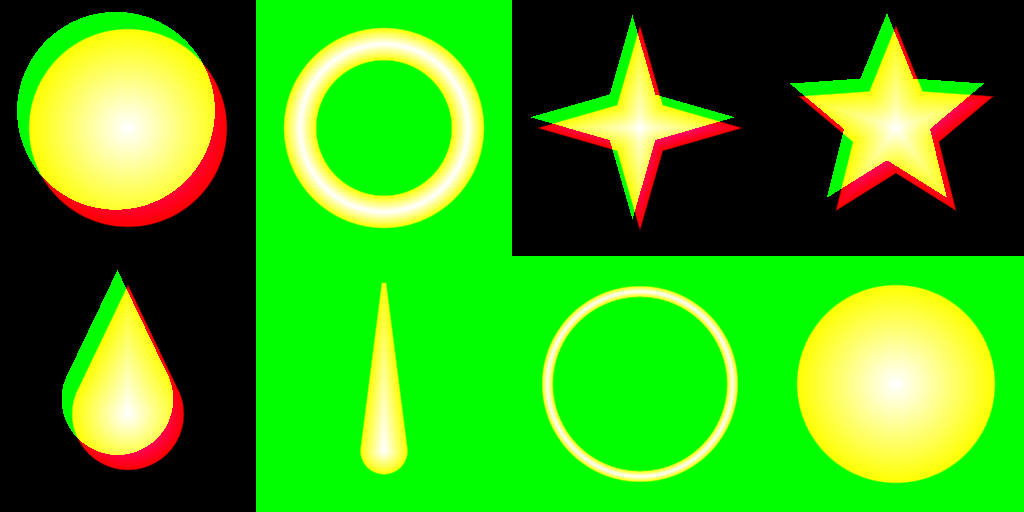
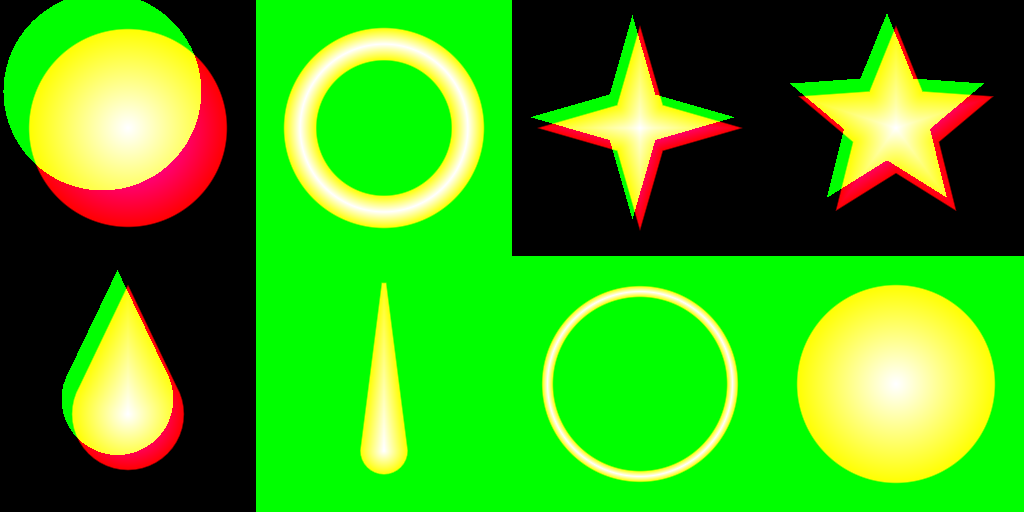
Polish M2 r3 WIP: drag-order helper, knockdown waits for the drawn body, atlas shade 28%, shard appear delay, ground ring
Work in progress before merging the bounce branch.

Changed region(s): [[0.0312, 0.0938, 0.2188, 0.4062], [0.0, 0.0, 0.1562, 0.2812], [0.1562, 0.0312, 0.1875, 0.0625]]

diff --git a/Tools/GAS/setup_presentation_vfx_materials.py b/Tools/GAS/setup_presentation_vfx_materials.py
@@ -50,6 +50,10 @@ INSTANCES = {
     # Landing / knockdown ring: thin, 43% -> 100% in the first 6 frames (ease-out), then thinned by erosion (6 -> 2 cm) until it dies
     "LandRing": dict(cell="ThinRing", FlatLight=1.0, StartScale=0.43, GrowEnd=0.33, ShrinkStart=1.0, EndScale=1.0, ErodeStart=0.3,
                      DisplayGain=2.1, colors=(DUST, DUST, DUST)),
+    # Landing / knockdown ring on the floor: the thick ring, thinned by erosion from 40% of its life. A flat thin ring is seen nearly edge-on
+    # from a low camera (12 degrees: a 6 cm band is ~1 px) and vanished after ~5 frames in review r2; the splat's ring faces the camera
+    "GroundRing": dict(cell="Ring", FlatLight=1.0, StartScale=0.43, GrowEnd=0.33, ShrinkStart=1.0, EndScale=1.0, ErodeStart=0.4,
+                       DisplayGain=2.1, colors=(DUST, DUST, DUST)),
     # Jump: thin ring, smaller and quicker than the landing
     "JumpRing": dict(cell="ThinRing", FlatLight=1.0, StartScale=0.4, GrowEnd=1.0, ShrinkStart=1.0, EndScale=1.0, ErodeStart=0.5,
                      DisplayGain=2.1, colors=(DUST, DUST, DUST)),
@@ -58,10 +62,10 @@ INSTANCES = {
                         DisplayGain=2.0, colors=(WHITE, WHITE, WHITE)),
     # Hit: 4-point star shards, white -> yellow -> orange, shrink out; pushed behind the flash for their first frame
     "HitStar": dict(cell="Star4", StartScale=1.0, GrowEnd=0.01, ShrinkStart=0.3, EndScale=0.3, ErodeStart=1.0, DisplayGain=2.0,
-                    colors=(WHITE, HIT_MID, HIT_END), MidTime=0.12, ShadowMul=HIT_SHADE, DepthPush=60.0, DepthPushEnd=0.08),
+                    colors=(WHITE, HIT_MID, HIT_END), MidTime=0.12, ShadowMul=HIT_SHADE, DepthPush=60.0, DepthPushEnd=0.08, AppearAt=0.05),
     # Strong hit accent: 5-point stars in the row's second colour (User.AccentTint through the particle colour)
     "HitAccent": dict(cell="Star5", StartScale=1.0, GrowEnd=0.01, ShrinkStart=0.3, EndScale=0.3, ErodeStart=1.0, DisplayGain=2.0,
-                      colors=(WHITE, WHITE, WHITE), ShadowMul=HIT_SHADE, DepthPush=60.0, DepthPushEnd=0.08),
+                      colors=(WHITE, WHITE, WHITE), ShadowMul=HIT_SHADE, DepthPush=60.0, DepthPushEnd=0.08, AppearAt=0.05),
     # Hit flash: the only thing above 1 (bloom), one or two frames
     "HitFlash": dict(cell="FlatBall", FlatLight=1.0, EmissiveBoost=4.0, StartScale=1.0, GrowEnd=0.01, ShrinkStart=0.0, EndScale=0.3,
                      ErodeStart=1.0, colors=(WHITE, WHITE, HIT_MID), MidTime=0.5),
@@ -71,6 +75,9 @@ INSTANCES = {
     # Tumble trail: balls dropped along the path (tinted by the cue, white by default), shrink out
     "TrailBall": dict(cell="Ball", StartScale=0.8, GrowEnd=0.1, ShrinkStart=0.3, EndScale=0.3, ErodeStart=1.0, DisplayGain=2.0,
                       colors=(WHITE, WHITE, WHITE), ShadowMul=COOL_SHADE),
+    # Colour calibration only (NS_GSTN_Swatch, capture with PIE_SWATCH=1): flat, full size all its life, the particle colour as is
+    "Swatch": dict(cell="FlatBall", FlatLight=1.0, StartScale=1.0, GrowEnd=0.01, ShrinkStart=1.0, EndScale=1.0, ErodeStart=1.0,
+                   DisplayGain=1.0, colors=(WHITE, WHITE, WHITE)),
     # Tumble ribbon: one tone; older segments erode first, so the tail tapers
     "TrailRibbon": dict(cell="FlatBall", FlatLight=1.0, StartScale=1.0, GrowEnd=0.01, ShrinkStart=1.0, EndScale=1.0, ErodeStart=0.0,
                         DisplayGain=2.0, colors=(WHITE, WHITE, WHITE)),
@@ -226,7 +233,16 @@ def build_master(atlas):
     # Erosion: keep = min(particle alpha, 1 - ramp(t, ErodeStart, 1)); visible where B >= 1 - keep (clip 0.5)
     keep_life = _unary(mat, unreal.MaterialExpressionOneMinus, _ramp(mat, t, _scalar(mat, "ErodeStart", 0.6, -700, 1400), one_c, -550, 1400),
                        -50, 1400)
-    keep = _op(mat, unreal.MaterialExpressionMin, color, keep_life, 100, 1300, a_out="A")
+    # Hidden before AppearAt (normalized age): the hit's shards must not show in the flash's frame (review r2: a cream star on frame 1).
+    # appear = saturate((t - AppearAt) * 10000 + 1): 1 at t = 0 when AppearAt is 0 (the default: every other effect shows on frame 1)
+    late = _op(mat, unreal.MaterialExpressionSubtract, t, _scalar(mat, "AppearAt", 0.0, -700, 1550), -550, 1550)
+    late_k = _node(mat, unreal.MaterialExpressionMultiply, -400, 1550, const_b=10000.0)
+    _link(late, "", late_k, "A")
+    late_1 = _node(mat, unreal.MaterialExpressionAdd, -280, 1550, const_b=1.0)
+    _link(late_k, "", late_1, "A")
+    appear = _unary(mat, unreal.MaterialExpressionSaturate, late_1, -160, 1550)
+    keep_alive = _op(mat, unreal.MaterialExpressionMin, keep_life, appear, -40, 1500)
+    keep = _op(mat, unreal.MaterialExpressionMin, color, keep_alive, 100, 1300, a_out="A")
     erode = _op(mat, unreal.MaterialExpressionAdd, tex, keep, 250, 1250, a_out="B")
     erode_bias = _node(mat, unreal.MaterialExpressionAdd, 400, 1250, const_b=-0.5)
     _link(erode, "", erode_bias, "A")
@@ -254,7 +270,7 @@ def build_instances(master):
         mi.set_editor_property("parent", master)
         col, row = CELLS[look["cell"]]
         scalars = {"CellX": col, "CellY": row, "FlatLight": 0.0, "EmissiveBoost": 1.0, "MidTime": 0.3, "DisplayGain": 1.3,
-                   "DepthPush": 0.0, "DepthPushEnd": 0.1}
+                   "DepthPush": 0.0, "DepthPushEnd": 0.1, "AppearAt": 0.0}
         scalars.update({k: v for k, v in look.items() if isinstance(v, (int, float))})
         for key, value in scalars.items():
             MEL.set_material_instance_scalar_parameter_value(mi, key, float(value))

diff --git a/Plugins/GSTNPresentation/Source/GSTNPresentationEditor/Private/GSTN_VfxAuthoringLibrary.cpp b/Plugins/GSTNPresentation/Source/GSTNPresentationEditor/Private/GSTN_VfxAuthoringLibrary.cpp
@@ -283,6 +283,35 @@ namespace GSTNVfxAuthoring
 		return Out + TEXT("}");
 	}
 
+	/** The stack's modules in execution order: walks the parameter map chain back from the output node (the engine's ordered walk is not
+	 *  exported) */
+	static void OrderedModules(UNiagaraNodeOutput* Output, TArray<UNiagaraNodeFunctionCall*>& Out)
+	{
+		UNiagaraNode* Current = Output;
+		while (Current)
+		{
+			UEdGraphPin* MapIn = nullptr;
+			for (UEdGraphPin* Pin : Current->Pins)
+			{
+				if (Pin && Pin->Direction == EGPD_Input && UEdGraphSchema_Niagara::PinToTypeDefinition(Pin) == FNiagaraTypeDefinition::GetParameterMapDef())
+				{
+					MapIn = Pin;
+					break;
+				}
+			}
+			if (!MapIn || MapIn->LinkedTo.IsEmpty())
+			{
+				return;
+			}
+			UNiagaraNode* Previous = Cast<UNiagaraNode>(MapIn->LinkedTo[0]->GetOwningNode());
+			if (UNiagaraNodeFunctionCall* Call = Cast<UNiagaraNodeFunctionCall>(Previous))
+			{
+				Out.Insert(Call, 0);
+			}
+			Current = Previous;
+		}
+	}
+
 	static UNiagaraNodeOutput* OutputFor(UNiagaraGraph* Graph, const FString& Stack)
 	{
 		TArray<UNiagaraNodeOutput*> Outputs;
@@ -485,6 +514,51 @@ FString UGSTN_VfxAuthoringLibrary::AddModule(UNiagaraSystem* System, const FStri
 	UNiagaraNodeFunctionCall* Added = FNiagaraStackGraphUtilities::AddScriptModuleToStack(ModuleScript, *Output);
 	System->MarkPackageDirty();
 	return Added ? FString() : TEXT("AddScriptModuleToStack failed");
+}
+
+FString UGSTN_VfxAuthoringLibrary::AddModuleBefore(UNiagaraSystem* System, const FString& EmitterName, const FString& Stack,
+	const FString& ModuleScriptPath, const FString& BeforeModule)
+{
+	using namespace GSTNVfxAuthoring;
+	FNiagaraEmitterHandle* Handle = FindHandle(System, EmitterName);
+	UNiagaraGraph* Graph = EmitterGraph(Handle ? Handle->GetEmitterData() : nullptr);
+	UNiagaraScript* ModuleScript = LoadObject<UNiagaraScript>(nullptr, *ModuleScriptPath);
+	UNiagaraNodeOutput* Output = Graph ? OutputFor(Graph, Stack) : nullptr;
+	if (!ModuleScript || !Output)
+	{
+		return FString::Printf(TEXT("cannot add %s to %s %s"), *ModuleScriptPath, *EmitterName, *Stack);
+	}
+	TArray<UNiagaraNodeFunctionCall*> Modules;
+	OrderedModules(Output, Modules);
+	const int32 Index = Modules.IndexOfByPredicate([&BeforeModule](const UNiagaraNodeFunctionCall* Call) { return Call->GetFunctionName() == BeforeModule; });
+	if (Index == INDEX_NONE)
+	{
+		return FString::Printf(TEXT("no module %s in %s (%d modules)"), *BeforeModule, *Stack, Modules.Num());
+	}
+	Graph->Modify();
+	UNiagaraNodeFunctionCall* Added = FNiagaraStackGraphUtilities::AddScriptModuleToStack(ModuleScript, *Output, Index);
+	System->MarkPackageDirty();
+	return Added ? FString() : TEXT("AddScriptModuleToStack failed");
+}
+
+FString UGSTN_VfxAuthoringLibrary::ListModules(UNiagaraSystem* System, const FString& EmitterName, const FString& Stack)
+{
+	using namespace GSTNVfxAuthoring;
+	FNiagaraEmitterHandle* Handle = FindHandle(System, EmitterName);
+	UNiagaraGraph* Graph = EmitterGraph(Handle ? Handle->GetEmitterData() : nullptr);
+	UNiagaraNodeOutput* Output = Graph ? OutputFor(Graph, Stack) : nullptr;
+	if (!Output)
+	{
+		return FString::Printf(TEXT("no stack %s on %s"), *Stack, *EmitterName);
+	}
+	TArray<UNiagaraNodeFunctionCall*> Modules;
+	OrderedModules(Output, Modules);
+	TArray<FString> Names;
+	for (const UNiagaraNodeFunctionCall* Call : Modules)
+	{
+		Names.Add(Call->GetFunctionName() + (Call->IsNodeEnabled() ? TEXT("") : TEXT("(off)")));
+	}
+	return FString::Join(Names, TEXT(" > "));
 }
 
 FString UGSTN_VfxAuthoringLibrary::SetModuleEnabled(UNiagaraSystem* System, const FString& EmitterName, const FString& Stack, const FString& ModuleName, bool bEnabled)

diff --git a/Plugins/GSTNPresentation/Source/GSTNPresentationCore/Private/GSTN_PresentationComponent.cpp b/Plugins/GSTNPresentation/Source/GSTNPresentationCore/Private/GSTN_PresentationComponent.cpp
@@ -181,13 +181,47 @@ bool UGSTN_PresentationComponent::ReportEvent(const FGSTN_PresentationEvent& InE
 	return true;
 }
 
-void UGSTN_PresentationComponent::PlayCue(const FGSTN_PresentationCue& Cue, const FGSTN_PresentationEvent& Event, float Intensity)
+bool UGSTN_PresentationComponent::IsBodyGrounded(const FGSTN_PresentationCue& Cue, FGSTN_PresentationEvent& Event) const
+{
+	const AActor* Owner = GetOwner();
+	const USkeletalMeshComponent* Mesh = Owner ? Owner->FindComponentByClass<USkeletalMeshComponent>() : nullptr;
+	if (!Mesh || Mesh->GetBoneIndex(Cue.GroundedBone) == INDEX_NONE)
+	{
+		return true;  // nothing to wait for
+	}
+	const FVector Bone = Mesh->GetBoneLocation(Cue.GroundedBone);
+	const FVector Ground = Event.Location + Cue.Offset;
+	if (Bone.Z - Ground.Z > Cue.GroundedHeight)
+	{
+		return false;
+	}
+	// Under the body as drawn, at the event's height (the floor)
+	Event.Location.X = Bone.X - Cue.Offset.X;
+	Event.Location.Y = Bone.Y - Cue.Offset.Y;
+	return true;
+}
+
+void UGSTN_PresentationComponent::PlayCue(const FGSTN_PresentationCue& Cue, const FGSTN_PresentationEvent& InEvent, float Intensity)
 {
 	UWorld* World = GetWorld();
 	AActor* Owner = GetOwner();
 	if (!World || !Owner)
 	{
 		return;
+	}
+	FGSTN_PresentationEvent Event = InEvent;
+	if (!Cue.GroundedBone.IsNone() && !IsBodyGrounded(Cue, Event))
+	{
+		if (Cue.GroundedMaxWait > 0.f)
+		{
+			FPendingGrounded& Pending = PendingGrounded.AddDefaulted_GetRef();
+			Pending.Cue = Cue;
+			Pending.Event = InEvent;
+			Pending.Intensity = Intensity;
+			Pending.Deadline = World->GetTimeSeconds() + Cue.GroundedMaxWait;
+			UpdateTickEnabled();
+			return;
+		}
 	}
 	USkeletalMeshComponent* Mesh = Owner->FindComponentByClass<USkeletalMeshComponent>();
 
@@ -306,6 +340,23 @@ void UGSTN_PresentationComponent::TickComponent(float DeltaTime, ELevelTick Tick
 		}
 		Sustained.RemoveAll([](const FSustained& Entry) { return !Entry.System.IsValid() || !Entry.System->IsActive(); });
 	}
+	if (const UWorld* World = GetWorld(); World && !PendingGrounded.IsEmpty())
+	{
+		const double Now = World->GetTimeSeconds();
+		// Moved out first: PlayCue may queue again (it never does here, the bone check is skipped) and must not touch the array we walk
+		TArray<FPendingGrounded> Waiting = MoveTemp(PendingGrounded);
+		for (FPendingGrounded& Pending : Waiting)
+		{
+			const bool bDue = IsBodyGrounded(Pending.Cue, Pending.Event) || Now >= Pending.Deadline;
+			if (!bDue)
+			{
+				PendingGrounded.Add(MoveTemp(Pending));
+				continue;
+			}
+			Pending.Cue.GroundedBone = NAME_None;  // due: play as is
+			PlayCue(Pending.Cue, Pending.Event, Pending.Intensity);
+		}
+	}
 	UpdateTickEnabled();
 }
 
@@ -324,7 +375,7 @@ void UGSTN_PresentationComponent::StopSustained(const FGameplayTag& EventTag)
 
 void UGSTN_PresentationComponent::UpdateTickEnabled()
 {
-	SetComponentTickEnabled(!Additives.IsEmpty() || !Sustained.IsEmpty());
+	SetComponentTickEnabled(!Additives.IsEmpty() || !Sustained.IsEmpty() || !PendingGrounded.IsEmpty());
 }
 
 void UGSTN_PresentationComponent::GetAdditiveReaction(FGSTN_AdditiveReactionRequest& Out) const

diff --git a/Tools/GAS/setup_presentation_table.py b/Tools/GAS/setup_presentation_table.py
@@ -29,7 +29,7 @@ def _tags(names):
 
 
 def _cue(event, system, min_mag=0.0, scale=None, socket="", offset=(0, 0, 0), orient=False, scale_size=True, stop_on=(), max_duration=0.0,
-         strong=0.0, accent=None):
+         strong=0.0, accent=None, grounded=""):
     cue = unreal.GSTN_PresentationCue()
     cue.set_editor_property("event_tag", _tag(event))
     cue.set_editor_property("min_magnitude", float(min_mag))
@@ -48,6 +48,7 @@ def _cue(event, system, min_mag=0.0, scale=None, socket="", offset=(0, 0, 0), or
     cue.set_editor_property("strong_intensity", float(strong))
     if accent:
         cue.set_editor_property("accent_tint", accent)
+    cue.set_editor_property("grounded_bone", grounded)
     return cue
 
 
@@ -68,8 +69,9 @@ def rows():
         _cue("WallBounce", "NS_GSTN_Impact", scale=((200, 1500), (0.7, 1.3)), orient=True),
         _cue("GroundBounce", "NS_GSTN_Impact", scale=((200, 1500), (0.7, 1.3)), offset=feet, orient=True),
         _cue("Splat", "NS_GSTN_Impact", scale=((200, 1500), (0.8, 1.4)), orient=True),
-        # The downed landing after a tumble: the landing ring at the feet, a little bigger (no magnitude: intensity 1 -> 1.2)
-        _cue("Knockdown", "NS_GSTN_LandRing", scale=((0, 1), (1.2, 1.2)), offset=feet),
+        # The downed landing after a tumble: the landing ring at the feet, a little bigger (no magnitude: intensity 1 -> 1.2). It waits for
+        # the drawn pelvis to reach the floor (review r2: the ring came 8-10 frames before the body touched down)
+        _cue("Knockdown", "NS_GSTN_LandRing", scale=((0, 1), (1.2, 1.2)), offset=feet, grounded="pelvis"),
         _cue("Tumble.Start", "NS_GSTN_TumbleTrail", socket="pelvis", scale_size=False,
              stop_on=("Tumble.End", "Knockdown", "GetUp", "Splat", "Land"), max_duration=3.0),
     ]

diff --git a/Plugins/GSTNPresentation/Source/GSTNPresentationEditor/Public/GSTN_VfxAuthoringLibrary.h b/Plugins/GSTNPresentation/Source/GSTNPresentationEditor/Public/GSTN_VfxAuthoringLibrary.h
@@ -55,6 +55,16 @@ public:
 	UFUNCTION(BlueprintCallable, Category = "GSTN|VFX Authoring")
 	static FString AddModule(UNiagaraSystem* System, const FString& EmitterName, const FString& Stack, const FString& ModuleScriptPath);
 
+	/** Inserts a module before another one of the same stack. A force (Drag, GravityForce) must run before SolveForcesAndVelocity: appended
+	 *  after it, its force is cleared before the next solve and the particle keeps a constant speed (review r2: shards and run puffs) */
+	UFUNCTION(BlueprintCallable, Category = "GSTN|VFX Authoring")
+	static FString AddModuleBefore(UNiagaraSystem* System, const FString& EmitterName, const FString& Stack, const FString& ModuleScriptPath,
+		const FString& BeforeModule);
+
+	/** The stack's modules in execution order, "A > B > C(off)" */
+	UFUNCTION(BlueprintCallable, Category = "GSTN|VFX Authoring")
+	static FString ListModules(UNiagaraSystem* System, const FString& EmitterName, const FString& Stack);
+
 	/** Enables or disables a stack module (a template module the effect does not want is disabled, not removed) */
 	UFUNCTION(BlueprintCallable, Category = "GSTN|VFX Authoring")
 	static FString SetModuleEnabled(UNiagaraSystem* System, const FString& EmitterName, const FString& Stack, const FString& ModuleName, bool bEnabled);

diff --git a/Plugins/GSTNPresentation/Source/GSTNPresentationCore/Public/GSTN_PresentationTypes.h b/Plugins/GSTNPresentation/Source/GSTNPresentationCore/Public/GSTN_PresentationTypes.h
@@ -171,6 +171,20 @@ struct GSTNPRESENTATIONCORE_API FGSTN_PresentationCue
 	UPROPERTY(EditAnywhere, BlueprintReadWrite, Category = "Cue|Niagara")
 	FName StrongParameter = TEXT("User.Strong");
 
+	/**
+	 * Waits for the drawn body: the cue plays once this bone of the owner's mesh is within GroundedHeight above the cue's location (or after
+	 * GroundedMaxWait). The event comes from the simulation, which can be frames ahead of what the mesh shows (review r2: the knockdown ring
+	 * came ~8-10 frames before the body touched the floor). The effect spawns under the bone. None = play at once
+	 */
+	UPROPERTY(EditAnywhere, BlueprintReadWrite, Category = "Cue|Niagara")
+	FName GroundedBone;
+
+	UPROPERTY(EditAnywhere, BlueprintReadWrite, Category = "Cue|Niagara", meta = (ClampMin = "0", ForceUnits = "cm"))
+	float GroundedHeight = 35.f;
+
+	UPROPERTY(EditAnywhere, BlueprintReadWrite, Category = "Cue|Niagara", meta = (ClampMin = "0", ForceUnits = "s"))
+	float GroundedMaxWait = 0.4f;
+
 	bool IsSustained() const { return !StopOn.IsEmpty() || MaxDuration > 0.f; }
 
 	// Sound

diff --git a/Plugins/GSTNPresentation/Source/GSTNPresentationCore/Public/GSTN_PresentationComponent.h b/Plugins/GSTNPresentation/Source/GSTNPresentationCore/Public/GSTN_PresentationComponent.h
@@ -149,6 +149,20 @@ private:
 	};
 	TArray<FSustained> Sustained;
 
+	/** A cue waiting for the drawn body (FGSTN_PresentationCue::GroundedBone) */
+	struct FPendingGrounded
+	{
+		FGSTN_PresentationCue Cue;
+		FGSTN_PresentationEvent Event;
+		float Intensity = 1.f;
+		/** World time (s) after which it plays anyway */
+		double Deadline = 0.0;
+	};
+	TArray<FPendingGrounded> PendingGrounded;
+
+	/** True (and Event.Location moved under the bone) when the cue may play now */
+	bool IsBodyGrounded(const FGSTN_PresentationCue& Cue, FGSTN_PresentationEvent& Event) const;
+
 	/** Stops the sustained systems that EventTag ends; drops the finished ones */
 	void StopSustained(const FGameplayTag& EventTag);
 	void UpdateTickEnabled();

diff --git a/Tools/GAS/vfx/make_vfx_atlas.py b/Tools/GAS/vfx/make_vfx_atlas.py
@@ -81,7 +81,7 @@ def streak():
 
 # Shapes in cell units: -1..1 across the cell. Light offset: the lit part is the shape moved up-left by this much
 SHAPES = [
-    (circle(0.92), 0.16),
+    (circle(0.92), 0.34),  # shade crescent ~27% of the ball (review r2: ~8% read as no second tone)
     (ring(0.78, 0.15), 0.0),
     (star(4, 0.95, 0.30, rot=-math.pi / 2), 0.10),
     (star(5, 0.95, 0.42), 0.12),
